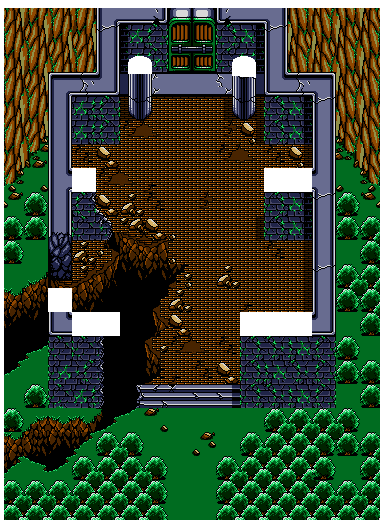
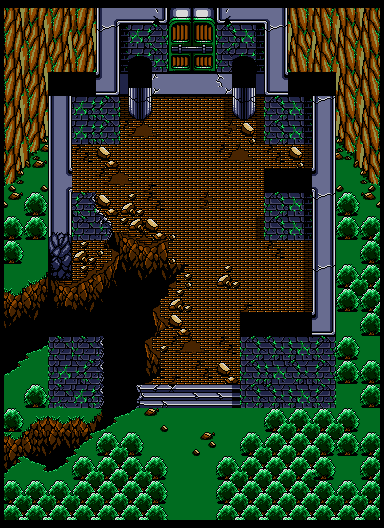
updated battle01 map

diff --git a/guardiana/src/assets/maps/battleMaps/battle01/index.ts b/guardiana/src/assets/maps/battleMaps/battle01/index.ts
@@ -1,53 +1,3 @@
-import * as I from '../../../../utils/types';
-import imageBottom from './battle01Bottom.png';
-import imageTop from './battle01Top.png';
-
-const battle01: I.Map = {
-    imageBottom,
-    imageTop,
-    mapDimentions: {
-        x: 22,
-        y: 22
-    },
-    grid: [
-        [0, 0, 0, 0, 0, 0, 0, 0, 0, 0, 0, 0, 0, 0, 0, 0],
-        [0, 9, 9, 9, 9, 9, 9, 9, 9, 9, 9, 9, 9, 9, 9, 0],
-        [0, 9, 9, 9, 9, 9, 9, 9, 9, 9, 9, 9, 9, 9, 9, 0],
-        [0, 9, 9, 9, 9, 9, 9, 9, 9, 9, 9, 9, 9, 9, 9, 0],
-        [0, 9, 9, 9, 9, 9, 9, 9, 9, 9, 9, 9, 9, 9, 9, 0],
-        [0, 9, 9, 9, 9, 9, 9, 9, 9, 9, 9, 9, 9, 9, 9, 0],
-        [0, 9, 9, 9, 9, 9, 9, 9, 9, 9, 9, 9, 9, 9, 9, 0],
-        [0, 9, 9, 9, 9, 9, 9, 9, 9, 9, 9, 9, 9, 9, 9, 0],
-        [0, 9, 9, 9, 9, 9, 9, 9, 9, 9, 9, 9, 9, 9, 9, 0],
-        [0, 9, 9, 9, 9, 9, 9, 9, 9, 9, 9, 9, 9, 9, 9, 0],
-        [0, 9, 9, 9, 9, 9, 9, 9, 9, 9, 9, 9, 9, 9, 9, 0],
-        [0, 9, 9, 9, 9, 9, 9, 9, 9, 9, 9, 9, 9, 9, 9, 0],
-        [0, 9, 9, 9, 9, 9, 9, 9, 9, 9, 9, 9, 9, 9, 9, 0],
-        [0, 9, 9, 9, 9, 9, 9, 9, 9, 9, 9, 9, 9, 9, 9, 0],
-        [0, 9, 9, 9, 9, 9, 9, 9, 9, 9, 9, 9, 9, 9, 9, 0],
-        [0, 9, 9, 9, 9, 9, 9, 9, 9, 9, 9, 9, 9, 9, 9, 0],
-        [0, 9, 9, 9, 9, 9, 9, 9, 9, 9, 9, 9, 9, 9, 9, 0],
-        [0, 9, 9, 9, 9, 9, 9, 9, 9, 9, 9, 9, 9, 9, 9, 0],
-        [0, 9, 9, 9, 9, 9, 9, 9, 9, 9, 9, 9, 9, 9, 9, 0],
-        [0, 9, 9, 9, 9, 9, 9, 9, 9, 9, 9, 9, 9, 9, 9, 0],
-        [0, 9, 9, 9, 9, 9, 9, 9, 9, 9, 9, 9, 9, 9, 9, 0],
-        [0, 0, 0, 0, 0, 0, 0, 0, 0, 0, 0, 0, 0, 0, 0, 0],
-    ],
-    pixelOffset: {
-        x: 0,
-        y: 0
-    },
-    cameraStartLocation: {
-        x: 0,
-        y: 0
-    },
-    heroStartLocations: [
-        { name: 'Hero 01', x: 1, y: 1 }
-    ],
-    npcStartLocations: [null],
-    enemyStartLocations: [
-        { name: 'Hero 01', x: 1, y: 1 }
-    ]
-}
+import battle01 from './battle01';
 
 export default battle01;

diff --git a/guardiana/src/assets/maps/battleMaps/battle01/battle01.ts b/guardiana/src/assets/maps/battleMaps/battle01/battle01.ts
@@ -1,0 +1,52 @@
+import * as I from '../../../../utils/types';
+import imageBottom from './battle01Bottom.png';
+import imageTop from './battle01Top.png';
+
+const battle01: I.Map = {
+    imageBottom,
+    imageTop,
+    mapDimentions: {
+        x: 16,
+        y: 22
+    },
+    grid: [
+        [0, 0, 0, 0, 0, 0, 0, 0, 0, 0, 0, 0, 0, 0, 0, 0],
+        [0, 9, 9, 9, 0, 0, 0, 0, 0, 0, 0, 0, 9, 9, 9, 0],
+        [0, 9, 9, 9, 9, 9, 9, 9, 9, 9, 9, 0, 9, 9, 9, 0],
+        [0, 9, 0, 0, 0, 0, 9, 9, 9, 9, 0, 0, 0, 0, 9, 0],
+        [0, 9, 0, 0, 0, 9, 9, 9, 9, 9, 9, 0, 0, 0, 9, 0],
+        [0, 9, 0, 9, 9, 9, 9, 9, 9, 9, 9, 9, 9, 0, 9, 0],
+        [0, 9, 0, 9, 9, 9, 9, 9, 9, 9, 9, 9, 9, 0, 9, 0],
+        [0, 9, 0, 0, 9, 9, 9, 9, 9, 9, 9, 0, 0, 0, 9, 0],
+        [0, 6, 0, 0, 0, 9, 9, 9, 9, 9, 9, 0, 0, 0, 9, 0],
+        [0, 6, 0, 9, 9, 5, 5, 9, 9, 9, 9, 9, 9, 0, 9, 0],
+        [0, 9, 0, 9, 5, 5, 5, 5, 9, 9, 9, 9, 9, 0, 9, 0],
+        [0, 9, 5, 5, 5, 5, 5, 9, 9, 9, 9, 9, 9, 0, 9, 0],
+        [0, 5, 5, 5, 5, 5, 5, 9, 9, 9, 9, 9, 9, 0, 9, 0],
+        [0, 5, 0, 0, 5, 5, 9, 9, 9, 9, 0, 0, 0, 0, 9, 0],
+        [0, 9, 0, 0, 5, 5, 5, 9, 9, 9, 0, 0, 0, 0, 6, 0],
+        [0, 6, 0, 0, 5, 5, 9, 9, 9, 9, 0, 0, 0, 0, 6, 0],
+        [0, 9, 9, 9, 5, 9, 9, 9, 9, 9, 9, 6, 6, 6, 6, 0],
+        [0, 9, 9, 9, 6, 6, 9, 9, 9, 9, 6, 6, 6, 6, 6, 0],
+        [0, 9, 9, 9, 9, 6, 6, 9, 9, 6, 6, 6, 6, 6, 6, 0],
+        [0, 9, 9, 9, 9, 9, 6, 9, 9, 6, 6, 6, 6, 6, 6, 0],
+        [0, 0, 0, 0, 0, 0, 0, 0, 0, 0, 0, 0, 0, 0, 0, 0],
+    ],
+    pixelOffset: {
+        x: 0,
+        y: 16
+    },
+    cameraStartLocation: {
+        x: 0,
+        y: 0
+    },
+    heroStartLocations: [
+        { name: 'Hero 01', x: 1, y: 1 }
+    ],
+    npcStartLocations: [null],
+    enemyStartLocations: [
+        { name: 'Hero 01', x: 1, y: 1 }
+    ]
+}
+
+export default battle01;

diff --git a/guardiana/src/infrastructure/class/Map.ts b/guardiana/src/infrastructure/class/Map.ts
@@ -18,7 +18,7 @@ export class Map {
         this.topImage = new Image()
         this.bottomImage.src = map.imageBottom
         this.topImage.src = map.imageTop
-
+        
         this.heroStartLocations = map.heroStartLocations
         this.enemyStartLocations = map.enemyStartLocations
         this.npcStartLocations = map.enemyStartLocations
@@ -76,8 +76,8 @@ export class Map {
             this.bottomImage,
             this.pixelOffset.x, // TODO: Why is the map loading 4 pixels off?
             this.pixelOffset.y,
-            this.pixels.height,
             this.pixels.width,
+            this.pixels.height,
             this.cameraPosition.x,
             this.cameraPosition.y,
             this.pixels.width * I.SCALE,
@@ -94,8 +94,8 @@ export class Map {
             this.topImage,
             this.pixelOffset.x, // TODO: Why is the map loading 4 pixels off?
             this.pixelOffset.y,
-            this.pixels.height,
             this.pixels.width,
+            this.pixels.height,
             this.cameraPosition.x,
             this.cameraPosition.y,
             this.pixels.width * I.SCALE,

diff --git a/guardiana/src/components/Tv/Tv.tsx b/guardiana/src/components/Tv/Tv.tsx
@@ -5,7 +5,7 @@ import { useEffect } from 'react';
 import spriteSheet_max from '../../assets/characters/Max/base/sprite-max.png';
 import { Character } from '../../infrastructure/class/Character';
 import { Map } from '../../infrastructure/class/Map';
-import battle01 from '../../assets/maps/battleMaps/battle01';
+import battle01 from '../../assets/maps/battleMaps/battle01/';
 
 // ================= //
 // === COMPONENT === //
